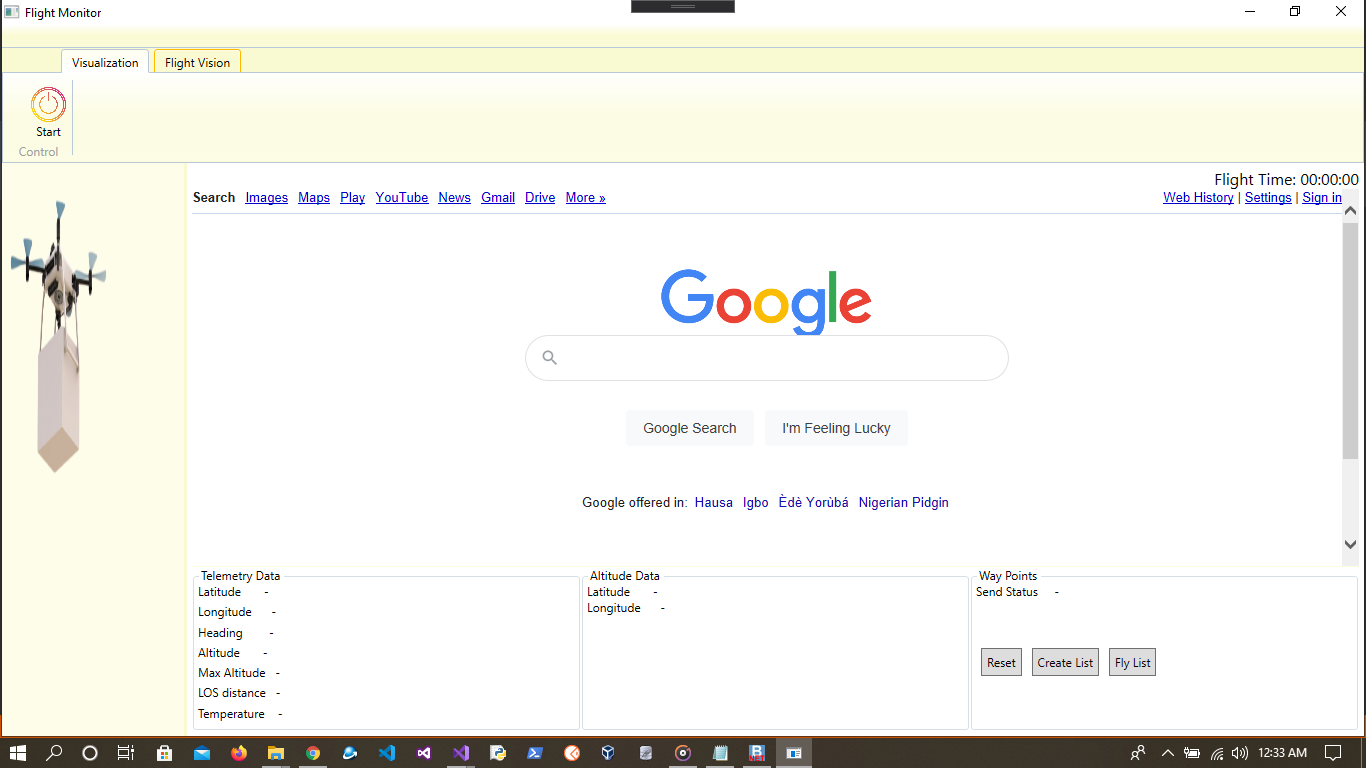
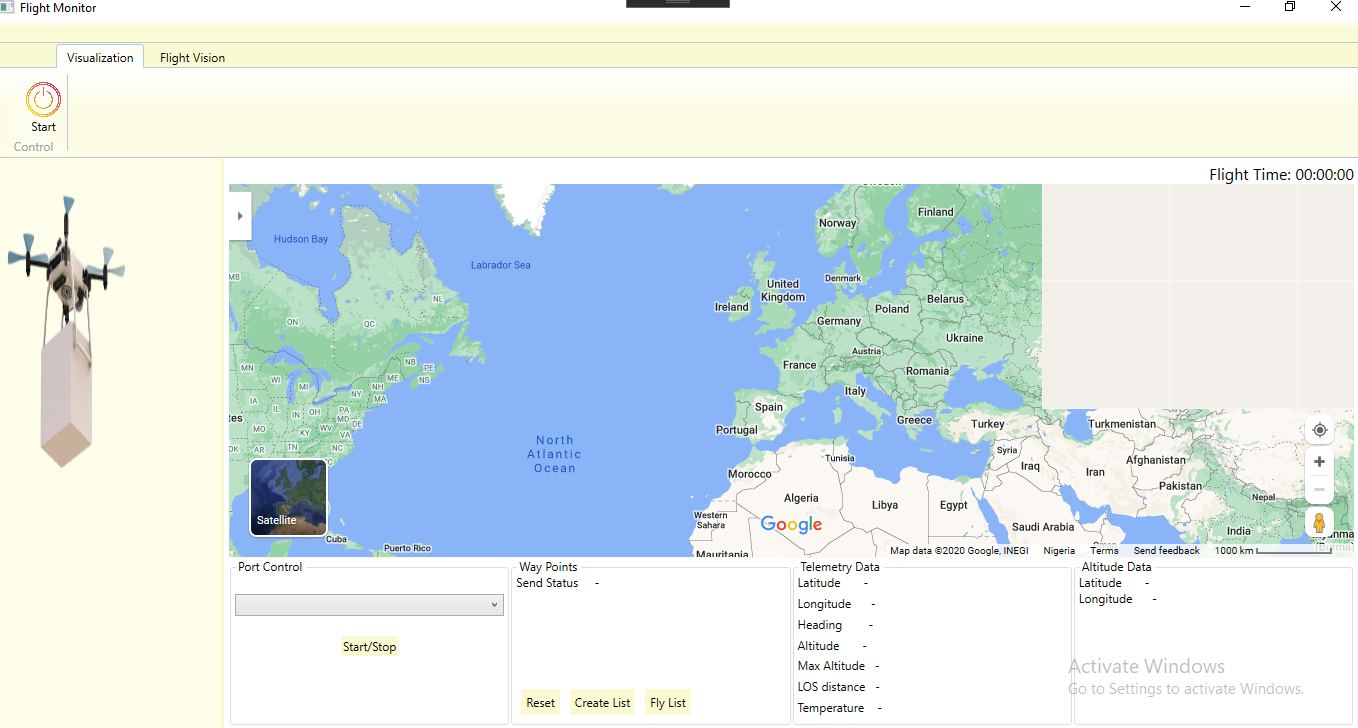
updated visualization UI

diff --git a/DroneMonitor/DroneMonitor.Visualization/Views/VisualizationView.xaml b/DroneMonitor/DroneMonitor.Visualization/Views/VisualizationView.xaml
@@ -5,6 +5,15 @@
              xmlns:d="http://schemas.microsoft.com/expression/blend/2008"
              mc:Ignorable="d" 
              d:DesignHeight="450" d:DesignWidth="800">
+    <UserControl.Resources>
+        <Style TargetType="Button">
+            <Setter Property="BorderBrush" Value="Transparent"/>
+            <Setter Property="BorderThickness" Value="0"/>
+            <Setter Property="Background" Value="LightGoldenrodYellow"/>
+            <Setter Property="Padding" Value="10" />
+            
+        </Style>
+    </UserControl.Resources>
     <Grid>
         <Grid.RowDefinitions>
             <RowDefinition Height="auto"/>
@@ -30,8 +39,42 @@
                 <ColumnDefinition Width="*"/>
                 <ColumnDefinition Width="*"/>
                 <ColumnDefinition Width="*"/>
+                <ColumnDefinition Width="*"/>
             </Grid.ColumnDefinitions>
-            <GroupBox Grid.Column="0" Header="Telemetry Data">
+            <GroupBox Header="Port Control" Grid.Column="0">
+                <StackPanel HorizontalAlignment="Stretch" Margin="0,20,0,0">
+                    <TextBlock Text="Ports"/>
+                    <ComboBox VerticalAlignment="Center" 
+                              HorizontalAlignment="Stretch"/>
+                    <Button Content="Start/Stop" VerticalAlignment="Center"
+                            HorizontalAlignment="Center"
+                            Margin="0,20,0,0"/>
+                </StackPanel>
+            </GroupBox>
+            <GroupBox Grid.Column="1" Header="Way Points">
+                <Grid>
+                    <Grid.ColumnDefinitions>
+                        <ColumnDefinition Width="*"/>
+                        <ColumnDefinition Width="*"/>
+                    </Grid.ColumnDefinitions>
+                    <Grid.RowDefinitions>
+                        <RowDefinition Height="auto"/>
+                        <RowDefinition Height="*"/>
+                    </Grid.RowDefinitions>
+                    <TextBlock Text="Send Status     -     " Grid.Column="0"/>
+                    <TextBlock Grid.Column="1"/>
+                    <StackPanel HorizontalAlignment="Stretch"
+                                VerticalAlignment="Bottom"
+                                Grid.ColumnSpan="2"
+                                Grid.Row="1"
+                                Orientation="Horizontal">
+                        <Button Content="Reset" Margin="5" />
+                        <Button Content="Create List" Margin="5" />
+                        <Button Content="Fly List" Margin="5" />
+                    </StackPanel>
+                </Grid>
+            </GroupBox>
+            <GroupBox Grid.Column="2" Header="Telemetry Data">
                 <Grid>
                     <Grid.ColumnDefinitions>
                         <ColumnDefinition Width="*"/>
@@ -63,7 +106,7 @@
                     <TextBlock Grid.Column="1" Grid.Row="6"/>
                 </Grid>
             </GroupBox>
-            <GroupBox Grid.Column="1" Header="Altitude Data">
+            <GroupBox Grid.Column="3" Header="Altitude Data">
                 <Grid>
                     <Grid.ColumnDefinitions>
                         <ColumnDefinition Width="*"/>
@@ -78,29 +121,6 @@
 
                     <TextBlock Grid.Column="1" Grid.Row="0"/>
                     <TextBlock Grid.Column="1" Grid.Row="1"/>
-                </Grid>
-            </GroupBox>
-            <GroupBox Grid.Column="2" Header="Way Points">
-                <Grid>
-                    <Grid.ColumnDefinitions>
-                        <ColumnDefinition Width="*"/>
-                        <ColumnDefinition Width="*"/>
-                    </Grid.ColumnDefinitions>
-                    <Grid.RowDefinitions>
-                        <RowDefinition Height="auto"/>
-                        <RowDefinition Height="*"/>
-                    </Grid.RowDefinitions>
-                    <TextBlock Text="Send Status     -     " Grid.Column="0"/>
-                    <TextBlock Grid.Column="1"/>
-                    <StackPanel HorizontalAlignment="Stretch"
-                                VerticalAlignment="Center"
-                                Grid.ColumnSpan="2"
-                                Grid.Row="1"
-                                Orientation="Horizontal">
-                        <Button Content="Reset" Margin="5" Padding="5"/>
-                        <Button Content="Create List" Margin="5" Padding="5"/>
-                        <Button Content="Fly List" Margin="5" Padding="5"/>
-                    </StackPanel>
                 </Grid>
             </GroupBox>
         </Grid>
